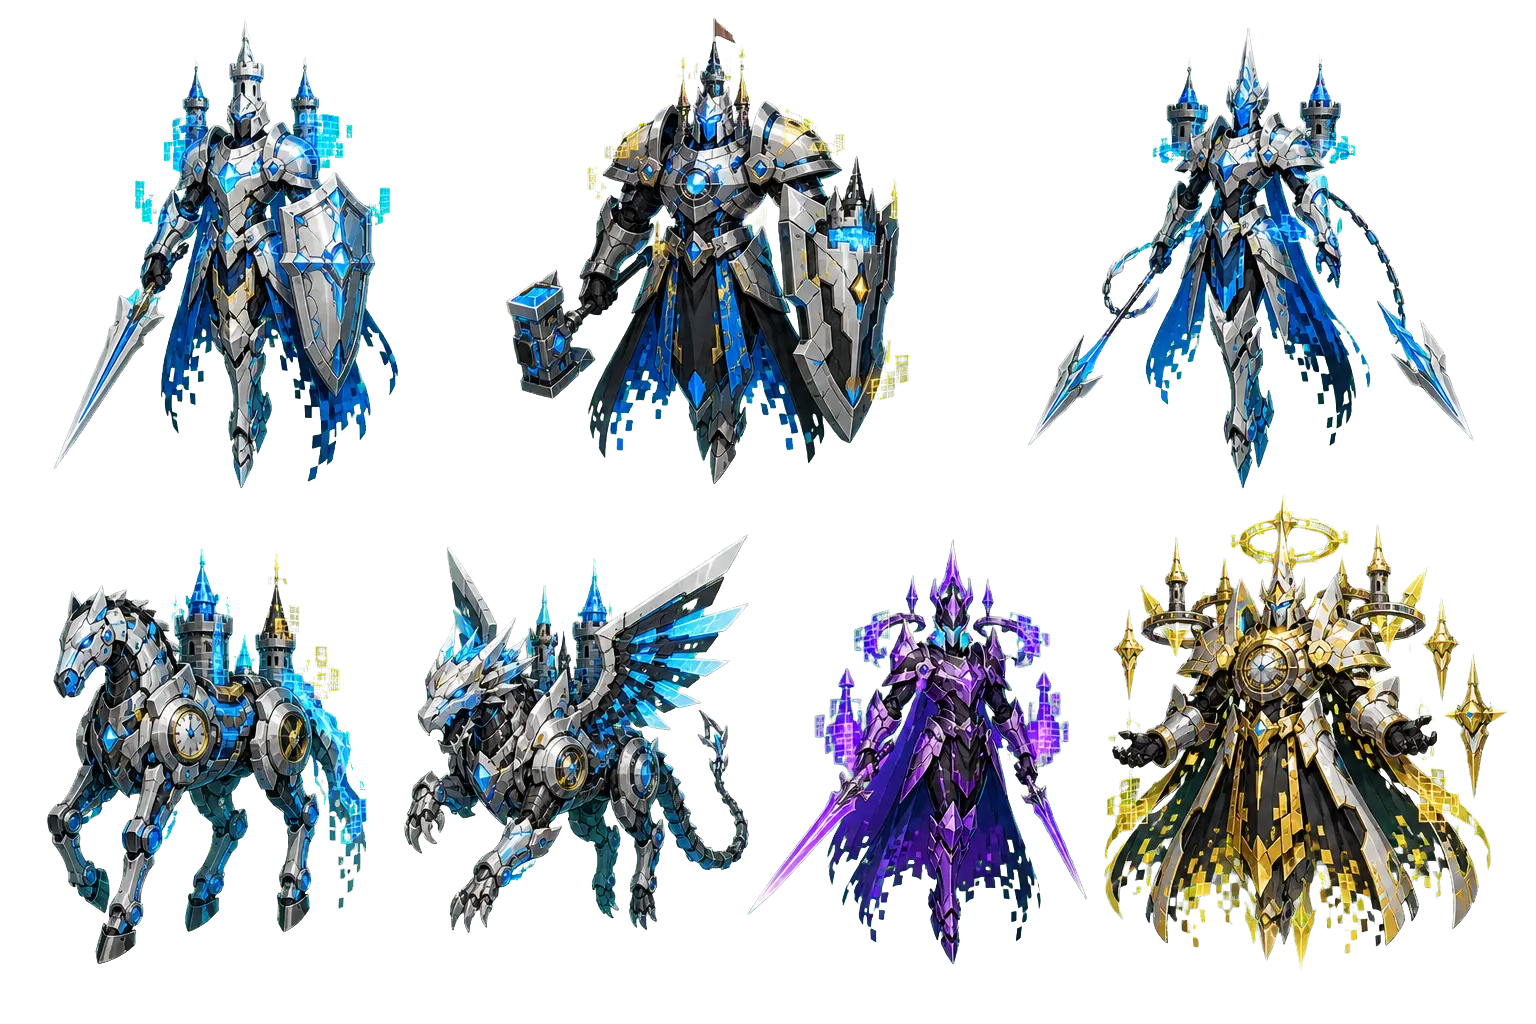
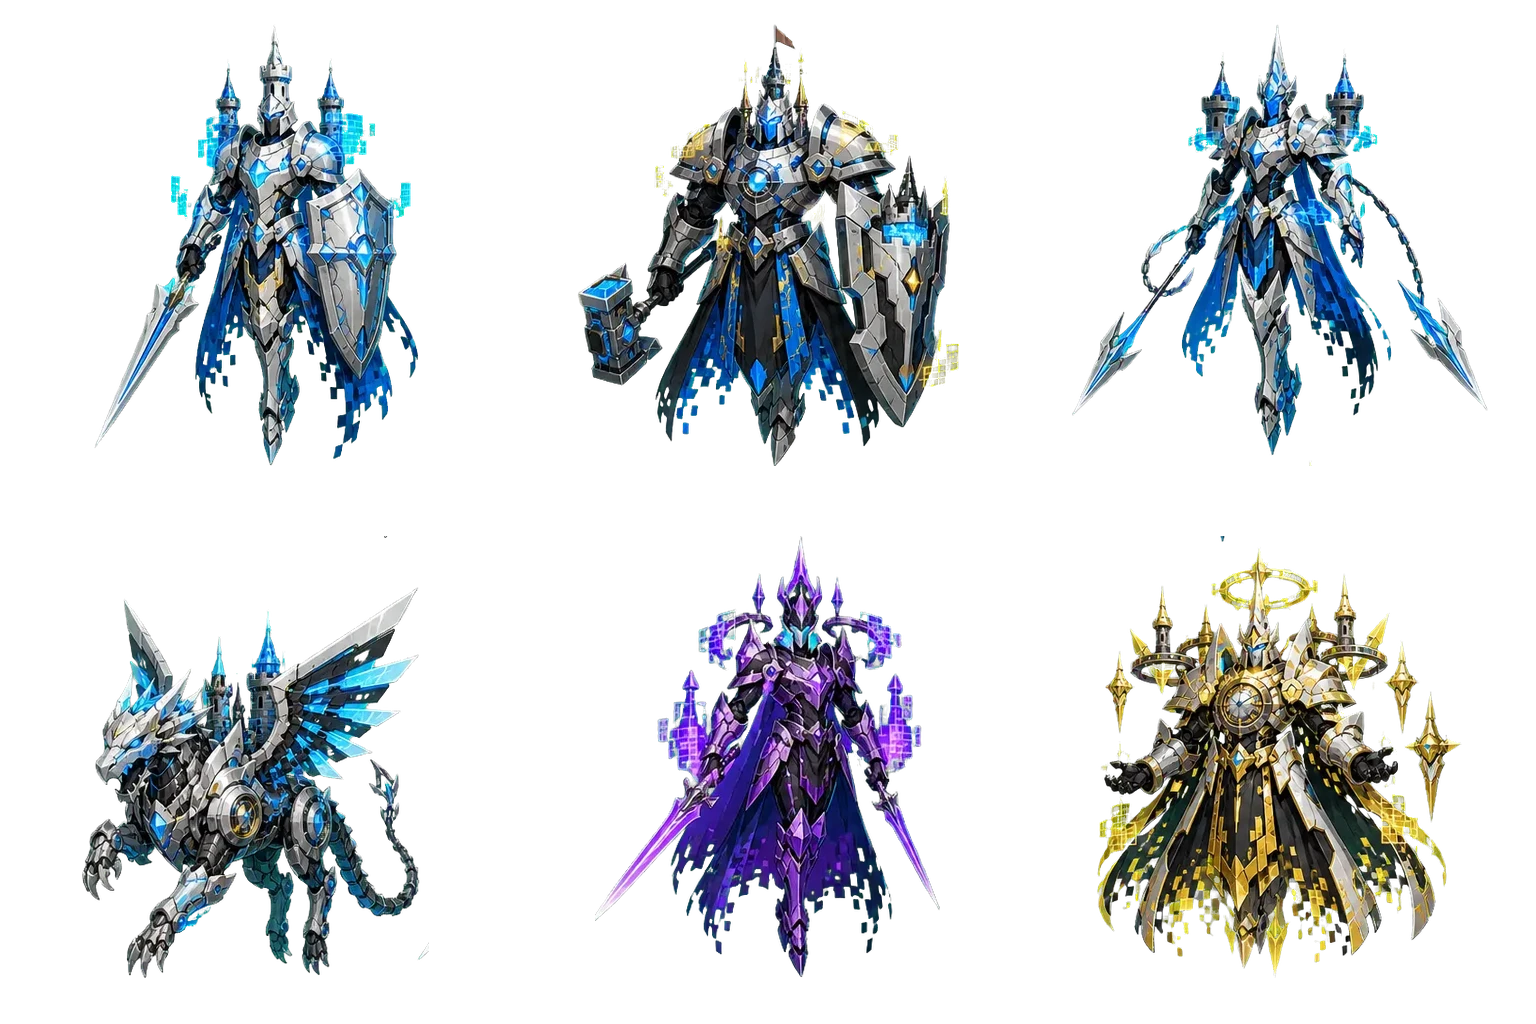
fix(idle): corrige 6 retours utilisateur (sceaux, sprites, sync, plafonds, drop)
- Les licences catalogue à 1 seul personnage se marquaient "complètes" dès
  la première invocation, versant des Sceaux à tort et polluant la page
  collection : on les exclut désormais du calcul.
- Atlas de sprites mob du monde 9 (Aincrad) cassé : 7 monstres au lieu des
  6 attendus par le découpage CSS en grille 3x2, recomposé proprement.
- La synchro serveur de l'aventure roguelike ne tournait que sur l'onglet
  Combat : plus rien ne redescendait sur l'onglet Niveaux, donnant
  l'impression que les choix de pouvoir n'arrivaient jamais "en direct".
- Ascension et Éveil plafonnaient tous les deux à 5, bloquant tout objectif
  de puissance pour un héros au max des deux : étendu à 10 paliers chacun.
- Coût d'amélioration d'objet et d'éveil indexé sur la même courbe
  exponentielle que les PV ennemis (×1.151/stage) alors que la production
  d'Essence grimpe bien plus lentement : courbe dédiée et plus douce
  (×1.08/stage).
- Les coffres de boss liaient rigidement chaque nature d'objet (rune1..6) à
  UN SEUL set pour toujours (même modulo sur tier), rendant un 2/4 pièces
  structurellement impossible : la rotation du set est désormais découplée
  de celle du kind.

diff --git a/backend/public/idle.js b/backend/public/idle.js
@@ -105,7 +105,12 @@ function idleSetConnectionState(mode,message){
   clearTimeout(idleConnectionHideTimer);box.className=`idle-connection-status ${mode}`;box.querySelector('i').className=`fas ${mode==='offline'?'fa-wifi-slash':mode==='retrying'?'fa-rotate fa-spin':'fa-circle-check'}`;label.textContent=message||(mode==='offline'?'Hors ligne · ta progression locale reste affichée':mode==='retrying'?'Reconnexion en cours…':'Progression synchronisée');box.querySelector('button')?.classList.toggle('hidden',mode==='online');
   if(mode==='online')idleConnectionHideTimer=setTimeout(()=>box.classList.add('hidden'),2200);
 }
-function idleStartSyncTicker(){clearInterval(idleSyncTicker);idleSyncTicker=setInterval(()=>{if(idleActivePanel==='home'&&!document.hidden)idleBackgroundSync();},idleStoredSetting('data-saver')?30000:15000);}
+// La synchro tournait uniquement sur l'onglet Combat : sur l'onglet Niveaux
+// (aventure roguelike), la production continuait côté serveur mais plus rien
+// ne redescendait tant qu'on ne revenait pas sur Combat — le nouveau choix de
+// pouvoir semblait n'arriver "qu'en changeant d'onglet", au hasard. La sync
+// doit tourner sur tous les onglets tant que l'écran est visible.
+function idleStartSyncTicker(){clearInterval(idleSyncTicker);idleSyncTicker=setInterval(()=>{if(!document.hidden)idleBackgroundSync();},idleStoredSetting('data-saver')?30000:15000);}
 
 function idleAddCombatLog(message,icon='fa-bolt'){
   idleCombatEntries.unshift({message,icon,at:new Date()});idleCombatEntries=idleCombatEntries.slice(0,4);
@@ -326,6 +331,9 @@ function idleShowPanel(name) {
   // données périmées depuis la dernière fois qu'il était actif.
   if (idleState) renderIdleState(idleState);
   if(name==='activities')loadIdleCommunityBoss();
+  // Ouvrir l'onglet Niveaux (aventure roguelike) synchronise tout de suite —
+  // sinon le choix de pouvoir en attente peut sembler figé jusqu'à 15-30s.
+  if(name==='progression')idleBackgroundSync();
 }
 
 // Nombre flottant dans la scène (+essence, façon dégâts/gains d'un jeu mobile).
@@ -2072,10 +2080,10 @@ function idleSlotHTML(slot) {
     <div class="idle-equipment-title"><i class="fas fa-shield-halved"></i> ÉQUIPEMENT <small>6 runes · sets 2/4 pièces</small></div>
     <div class="idle-equipment">${equipment}</div>
     <div class="idle-level-buys">${[1,5,10,100,'max'].map((n) => {const cost=n==='max'?c.levelUpCost:c.levelCosts[n];return `<button class="idle-hero-levelup" data-slot="${slot.index}" data-amount="${n}" data-action="levelup" title="${n==='max'?'Acheter le maximum abordable':`Monter de ${n} niveaux · coût ${idleFormatNumber(cost)}`}"${idleState && idleState.essence < cost ? ' disabled' : ''}><b>${n==='max'?'MAX':`×${n}`}</b><small>${n==='max'?'budget':idleFormatNumber(cost)}</small></button>`;}).join('')}</div>
-    ${c.canAscend ? `<button class="idle-ascend-btn" data-slot="${slot.index}" data-action="ascend" title="Augmente la puissance sans perdre les niveaux · réinitialisée au Prestige" ${idleState && idleState.essence < c.ascensionCost ? 'disabled' : ''}><i class="fas fa-sun"></i> ASCENSION · ${idleFormatNumber(c.ascensionCost)}</button>` : c.ascension >= (c.ascensionMax||5) ? `<span class="idle-ascend-max">ASCENSION MAXIMALE · ×${Number(c.ascensionMultiplier||1).toFixed(2)} · RESET AU PRESTIGE</span>` : `<span class="idle-ascend-hint"><i class="fas fa-lock"></i> Ascension au niveau ${c.ascensionLevel||100} · niveaux conservés · prochain ×${Number(c.nextAscensionMultiplier||c.ascensionMultiplier||1).toFixed(2)}</span>`}
-    ${(c.awakenStars||0)<(c.awakenStarMax||5)
-      ? `<button class="idle-ascend-btn idle-awaken-btn" data-character="${c.id}" data-action="awaken" title="+${Math.round((c.awakenStarBonus||.08)*100)}% de production personnelle par étoile · permanent, conservé au Prestige" ${idleState && idleState.essence < c.awakenStarCost ? 'disabled' : ''}><i class="fas fa-star"></i> ÉVEIL ${'★'.repeat(c.awakenStars||0)}${'☆'.repeat((c.awakenStarMax||5)-(c.awakenStars||0))} · ${idleFormatNumber(c.awakenStarCost)}</button>`
-      : `<span class="idle-ascend-max">ÉVEIL MAXIMAL ★★★★★ · ×${Number(c.awakenStarMultiplier||1).toFixed(2)} permanent</span>`}
+    ${c.canAscend ? `<button class="idle-ascend-btn" data-slot="${slot.index}" data-action="ascend" title="Augmente la puissance sans perdre les niveaux · réinitialisée au Prestige" ${idleState && idleState.essence < c.ascensionCost ? 'disabled' : ''}><i class="fas fa-sun"></i> ASCENSION · ${idleFormatNumber(c.ascensionCost)}</button>` : c.ascension >= (c.ascensionMax||10) ? `<span class="idle-ascend-max">ASCENSION MAXIMALE · ×${Number(c.ascensionMultiplier||1).toFixed(2)} · RESET AU PRESTIGE</span>` : `<span class="idle-ascend-hint"><i class="fas fa-lock"></i> Ascension au niveau ${c.ascensionLevel||100} · niveaux conservés · prochain ×${Number(c.nextAscensionMultiplier||c.ascensionMultiplier||1).toFixed(2)}</span>`}
+    ${(c.awakenStars||0)<(c.awakenStarMax||10)
+      ? `<button class="idle-ascend-btn idle-awaken-btn" data-character="${c.id}" data-action="awaken" title="+${Math.round((c.awakenStarBonus||.08)*100)}% de production personnelle par étoile · permanent, conservé au Prestige" ${idleState && idleState.essence < c.awakenStarCost ? 'disabled' : ''}><i class="fas fa-star"></i> ÉVEIL ${'★'.repeat(c.awakenStars||0)}${'☆'.repeat((c.awakenStarMax||10)-(c.awakenStars||0))} · ${idleFormatNumber(c.awakenStarCost)}</button>`
+      : `<span class="idle-ascend-max">ÉVEIL MAXIMAL ${'★'.repeat(c.awakenStarMax||10)} · ×${Number(c.awakenStarMultiplier||1).toFixed(2)} permanent</span>`}
   </div>`;
 }
 

diff --git a/backend/src/idle/idle.routes.js b/backend/src/idle/idle.routes.js
@@ -36,6 +36,7 @@ const {
   enemyUnitMaxHp,
   enemyArchetype,
   enemyReward,
+  investmentCostIndex,
   enemiesRequiredForStage,
   normalizeWaveProgress,
   enemyUnitReward,
@@ -475,7 +476,16 @@ function rollItemAffixes(tier,rarity) {
 
 function idleItemDrop(tier,kind,rarity,bonus,sourceWorld='Dojo ancestral') {
   const def=ITEM_KINDS[kind];
-  const setKey=RUNE_SET_KEYS[Math.max(0,tier-1)%RUNE_SET_KEYS.length];
+  // Rotation DÉCOUPLÉE de celle du kind (RUNE_KINDS[(tier-1)%6], notamment au
+  // coffre de boss) : avec le même modulo pour les deux, chaque nature d'objet
+  // (rune1..6) retombait TOUJOURS sur le même set, à vie — bijection rigide
+  // qui rendait un 2/4 pièces structurellement impossible depuis les coffres
+  // (retour utilisateur : "impossible de faire des ensembles"). En avançant le
+  // set d'un cran seulement tous les RUNE_KINDS.length tiers, un cycle complet
+  // de coffres (6 tiers consécutifs) livre les 6 natures dans le MÊME set —
+  // largement de quoi compléter un 2 ou 4 pièces — avant de tourner vers le
+  // set suivant au cycle d'après.
+  const setKey=RUNE_SET_KEYS[Math.floor(Math.max(0,tier-1)/RUNE_KINDS.length)%RUNE_SET_KEYS.length];
   const effectKey=RUNE_SETS[setKey].effectKey;
   const effect=ITEM_EFFECTS[effectKey];
   const effectValue=effect.mode==='salvage'?Number((.05+Math.min(.25,tier*.005)).toFixed(3)):Number((.01+Math.min(.09,tier*.002)).toFixed(3));
@@ -548,7 +558,7 @@ const SALVAGE_STAGE_FACTOR={rare:5,epic:12,legendary:25,mythic:50};
 function itemSalvageValue(item,bestStage=1) {
   const rarity=ITEM_RARITY_ORDER[item.rarity]||1;
   const flat=Math.round(160*rarity*Math.pow(1+item.bonus,4)*(1+(item.enhancementLevel||0)*.08));
-  const progression=Math.round(enemyReward(Math.max(1,bestStage))*(SALVAGE_STAGE_FACTOR[item.rarity]||SALVAGE_STAGE_FACTOR.rare)*(1+(item.enhancementLevel||0)*.08));
+  const progression=Math.round(investmentCostIndex(Math.max(1,bestStage))*(SALVAGE_STAGE_FACTOR[item.rarity]||SALVAGE_STAGE_FACTOR.rare)*(1+(item.enhancementLevel||0)*.08));
   return Math.max(25,flat,progression);
 }
 // Coût d'amélioration (+15) : formule plate historique + plancher indexé sur
@@ -560,7 +570,7 @@ function runeEnhanceCost(item,bestStage=1){
   const level=Math.max(0,Math.min(15,Number(item?.enhancementLevel)||0));if(level>=15)return 0;
   const rarity=ITEM_RARITY_ORDER[item?.rarity]||1;
   const flat=Math.round(120*(level+1)*Math.pow(1.22,level)*rarity);
-  const progression=Math.round(enemyReward(Math.max(1,bestStage))*.5*(level+1)*rarity);
+  const progression=Math.round(investmentCostIndex(Math.max(1,bestStage))*.5*(level+1)*rarity);
   return Math.max(flat,progression);
 }
 // Meulage (reroll) : re-tire la MAGNITUDE de l'affixe primaire et des affixes
@@ -569,7 +579,7 @@ function runeEnhanceCost(item,bestStage=1){
 // d'essence de fin de partie (« grind » de Summoners War).
 function runeRerollCost(item,bestStage=1){
   const rarity=ITEM_RARITY_ORDER[item?.rarity]||1;
-  return Math.max(400,Math.round(enemyReward(Math.max(1,bestStage))*8*rarity));
+  return Math.max(400,Math.round(investmentCostIndex(Math.max(1,bestStage))*8*rarity));
 }
 function rerolledAffixValue(effectKey,tier){
   const mode=ITEM_EFFECTS[effectKey]?.mode||'dps';
@@ -1452,10 +1462,14 @@ async function buildState(userId) {
     if (r.awakened) entry.awakened++;
     ownedBySeries.set(r.character.series, entry);
   }
+  // Séries à un seul personnage catalogué exclues : elles se « complètent »
+  // dès la toute première invocation (total==owned==1), ce qui polluait la
+  // grille de collection de dizaines d'entrées triviales et versait des
+  // Sceaux de complétion à chaque pull touchant un perso isolé.
   const seriesCollection = [...ownedBySeries.entries()].map(([series, entry]) => {
     const total = Math.max(entry.owned, seriesTotals.get(series) || entry.owned);
     return { series, owned: entry.owned, awakened: entry.awakened, total, percent: Math.round((entry.owned / total) * 100), complete: entry.owned >= total };
-  }).sort((a, b) => b.percent - a.percent || b.owned - a.owned);
+  }).filter((s) => s.total > 1).sort((a, b) => b.percent - a.percent || b.owned - a.owned);
   const catalogTotal = [...seriesTotals.values()].reduce((sum, n) => sum + n, 0);
   // ── Complétion de licence : synchronisation paresseuse du compteur
   // permanent (User.idleCompletedSeries). Monotone : ne descend jamais, même

diff --git a/backend/src/idle/idle.js b/backend/src/idle/idle.js
@@ -154,7 +154,11 @@ function characterPassiveDescription(character, rarity) {
 const HERO_MILESTONES = [10, 25, 50, 100, 150, 200];
 const HERO_ASCENSION_LEVEL = 100;
 const HERO_ASCENSION_LEVEL_STEP = 10;
-const HERO_ASCENSION_MAX = 5;
+// 5 → 10 paliers : à 5/5, un héros aussi Éveil 5/5 n'avait plus AUCUN objectif
+// de puissance discret à viser (retour utilisateur : "l'ascension et l'éveil
+// sont tout les 2 bloqués"). Les 5 paliers suivants gardent la même formule
+// de coût/gain, juste étendue plus loin dans la courbe.
+const HERO_ASCENSION_MAX = 10;
 const HERO_ASCENSION_GROWTH = 1.6;
 // Équivalent-niveaux du coût d'une Ascension (voir heroAscensionCost).
 const HERO_ASCENSION_LEVEL_EQUIVALENT = 12;
@@ -418,6 +422,19 @@ function enemyReward(stage) {
   // vague 5 était une pure punition de rendement en farm.
   const special = isBossStage(s) ? 3 : isEliteStage(s) ? ELITE_HP_MULTIPLIER : 1;
   return Math.max(1, Math.round(finiteIdleNumber(ENEMY_REWARD_BASE * Math.pow(ENEMY_REWARD_GROWTH, s - 1) * special * campaignDifficulty(s).reward, 1)));
+}
+// Plancher d'investissement (amélioration d'objets, Étoiles d'Éveil) : ces
+// coûts réutilisaient enemyReward(bestStage), donc la MÊME croissance ×1.151
+// que les PV ennemis. Or bestStage avance quasiment tout seul (DPS auto vs
+// PV, courbes déjà appariées), alors que l'Essence produite dépend d'un
+// investissement actif (niveaux/équipement/éveil) bien plus lent à monter —
+// retour utilisateur : "quasiment impossible" de suivre. Courbe dédiée, bien
+// plus douce (×1.08/stage), décorrélée des pics de difficulté de campagne :
+// le coût continue de suivre la progression sans jamais la devancer.
+const INVESTMENT_COST_GROWTH = 1.08;
+function investmentCostIndex(stage) {
+  const s = Math.max(1, Math.floor(stage || 1));
+  return finiteIdleNumber(ENEMY_REWARD_BASE * Math.pow(INVESTMENT_COST_GROWTH, s - 1), 1);
 }
 const ENEMY_ARCHETYPES = {
   standard: { key:'standard', name:'Standard', description:'Adversaire équilibré.', hpMultiplier:1, rewardMultiplier:1 },
@@ -895,17 +912,23 @@ const AWAKENED_BONUS = 1.10;
 // progression comme le recyclage/l'amélioration des runes, remet l'éveil
 // dans le même budget que le reste des investissements de héros (niveaux,
 // Ascension), sans jamais entrer en concurrence avec le recrutement.
-const AWAKEN_STAR_MAX = 5;
+// 5 → 10 étoiles, même raison que HERO_ASCENSION_MAX ci-dessus : un héros
+// Éveil 5/5 n'avait plus rien à investir dès qu'il était aussi Ascension
+// max, ce qui se lisait comme un blocage plutôt qu'un plafond de contenu.
+const AWAKEN_STAR_MAX = 10;
 const AWAKEN_STAR_BONUS = 0.08;
 // Coût = N fois la récompense d'un ennemi au meilleur stage atteint, pondéré
 // par rareté (mêmes facteurs relatifs que SALVAGE_STAGE_FACTOR) et croissant
 // par étoile — même famille de formule que itemSalvageValue/runeEnhanceCost.
 const AWAKEN_STAR_STAGE_FACTOR = { rare: 40, epic: 90, legendary: 180, mythic: 350 };
-const AWAKEN_STAR_GROWTH = [1, 2.2, 4.8, 10.5, 23]; // multiplicateur pour l'étoile N+1
+// Multiplicateur pour l'étoile N+1 — les 5 premiers paliers gardaient le même
+// ratio (~×2.19) d'un cran à l'autre ; les 5 suivants prolongent cette même
+// progression géométrique plutôt que d'inventer une nouvelle courbe.
+const AWAKEN_STAR_GROWTH = [1, 2.2, 4.8, 10.5, 23, 50, 110, 241, 528, 1156];
 function awakenStarCost(rarity, stars, bestStage = 1) {
   const s = Math.max(0, Math.min(AWAKEN_STAR_MAX - 1, Math.floor(stars || 0)));
   const factor = AWAKEN_STAR_STAGE_FACTOR[rarity] || AWAKEN_STAR_STAGE_FACTOR.rare;
-  return Math.round(finiteIdleNumber(enemyReward(Math.max(1, bestStage)) * factor * AWAKEN_STAR_GROWTH[s], 1));
+  return Math.round(finiteIdleNumber(investmentCostIndex(Math.max(1, bestStage)) * factor * AWAKEN_STAR_GROWTH[s], 1));
 }
 function awakenStarMultiplier(stars) {
   return 1 + Math.max(0, Math.min(AWAKEN_STAR_MAX, Math.floor(stars || 0))) * AWAKEN_STAR_BONUS;
@@ -1028,6 +1051,7 @@ module.exports = {
   isEliteStage,
   enemyMaxHp,
   enemyReward,
+  investmentCostIndex,
   ENEMY_ARCHETYPES,
   enemyArchetype,
   enemyUnitMaxHp,

diff --git a/backend/test/idle.test.js b/backend/test/idle.test.js
@@ -267,9 +267,9 @@ test('nouveaux Ancients : Frappe Fantôme, Pas du Conquérant et Fortune des Gar
   assert.ok(AWAKENED_BONUS>1&&AWAKENED_CHANCE>0&&AWAKENED_CHANCE<.1);
 });
 
-test('étoiles d’Éveil : coût croissant en Essence (pas en Sceaux), bonus plafonné à 5 étoiles',()=>{
+test('étoiles d’Éveil : coût croissant en Essence (pas en Sceaux), bonus plafonné à 10 étoiles',()=>{
   const {AWAKEN_STAR_MAX,awakenStarCost,awakenStarMultiplier}=require('../src/idle/idle');
-  assert.equal(AWAKEN_STAR_MAX,5);
+  assert.equal(AWAKEN_STAR_MAX,10);
   assert.ok(awakenStarCost('rare',1,50)>awakenStarCost('rare',0,50));
   assert.ok(awakenStarCost('rare',4,50)>awakenStarCost('rare',3,50));
   // Indexé sur la progression (comme le recyclage/l'amélioration des runes) :
@@ -278,8 +278,8 @@ test('étoiles d’Éveil : coût croissant en Essence (pas en Sceaux), bonus pl
   // Une rareté plus élevée coûte plus cher à éveiller, à stage égal.
   assert.ok(awakenStarCost('mythic',0,50)>awakenStarCost('rare',0,50));
   assert.equal(awakenStarMultiplier(0),1);
-  assert.ok(Math.abs(awakenStarMultiplier(5)-1.4)<1e-9);
-  assert.equal(awakenStarMultiplier(99),awakenStarMultiplier(5)); // jamais au-delà du cap
+  assert.ok(Math.abs(awakenStarMultiplier(10)-1.8)<1e-9);
+  assert.equal(awakenStarMultiplier(99),awakenStarMultiplier(10)); // jamais au-delà du cap
 });
 
 test('complétion de licence et Mémoire du Maître : bonus permanents bornés',()=>{
@@ -387,12 +387,12 @@ test('simulation 1000 h : même une production extrême ne rend pas les invocati
   assert.ok(Number.isFinite(at1000h.nextCost));
 });
 
-test('ascension : cinq paliers à rendement décroissant, sans boucle auto-accélérante', () => {
+test('ascension : dix paliers à rendement décroissant, sans boucle auto-accélérante', () => {
   assert.deepEqual(
     Array.from({ length: HERO_ASCENSION_MAX }, (_, ascension) => heroAscensionRequiredLevel(ascension)),
-    [100, 110, 120, 130, 140],
+    [100, 110, 120, 130, 140, 150, 160, 170, 180, 190],
   );
-  assert.ok(heroAscensionMultiplier(HERO_ASCENSION_MAX) < 11);
+  assert.ok(heroAscensionMultiplier(HERO_ASCENSION_MAX) < 111);
   assert.equal(heroAscensionMultiplier(HERO_ASCENSION_MAX + 100), heroAscensionMultiplier(HERO_ASCENSION_MAX));
   for (let ascension = 0; ascension < HERO_ASCENSION_MAX; ascension++) {
     const requiredLevel = heroAscensionRequiredLevel(ascension);

diff --git a/backend/test/idle-routes.test.js b/backend/test/idle-routes.test.js
@@ -380,8 +380,17 @@ test('améliorer un objet conserve toujours sa rareté d’origine',()=>{
 });
 
 test('inventaire : les mondes et les paliers créent des familles variées',()=>{
-  const effects=new Set([1,2,3].map((tier)=>idleItemDrop(tier,'rune2','rare',.03,'Konoha').effectKey));
+  // Le set ne tourne plus à CHAQUE palier (tiers 1,2,3 partageaient le même
+  // kind au coffre de boss ET un set toujours différent : bijection kind↔set
+  // rigide qui rendait un 2/4 pièces impossible — cf. idleItemDrop). Il tourne
+  // désormais par LOT de RUNE_KINDS.length paliers, pour qu'un cycle complet
+  // de coffres (paliers 1 à 6, un par nature d'objet) livre le même set —
+  // largement de quoi compléter un 2 ou 4 pièces — avant de changer de famille
+  // au lot suivant (palier 7).
+  const effects=new Set([1,7,13].map((tier)=>idleItemDrop(tier,'rune2','rare',.03,'Konoha').effectKey));
   assert.equal(effects.size,3);
+  const sameBatch=new Set([1,2,3,4,5,6].map((tier)=>idleItemDrop(tier,'rune2','rare',.03,'Konoha').effectKey));
+  assert.equal(sameBatch.size,1);
   assert.match(idleItemDrop(1,'rune1','rare',.03,'Konoha').name,/Kunai de la Feuille/);
   assert.match(idleItemDrop(1,'rune1','rare',.03,'Namek').name,/Lame de Ki/);
 });
